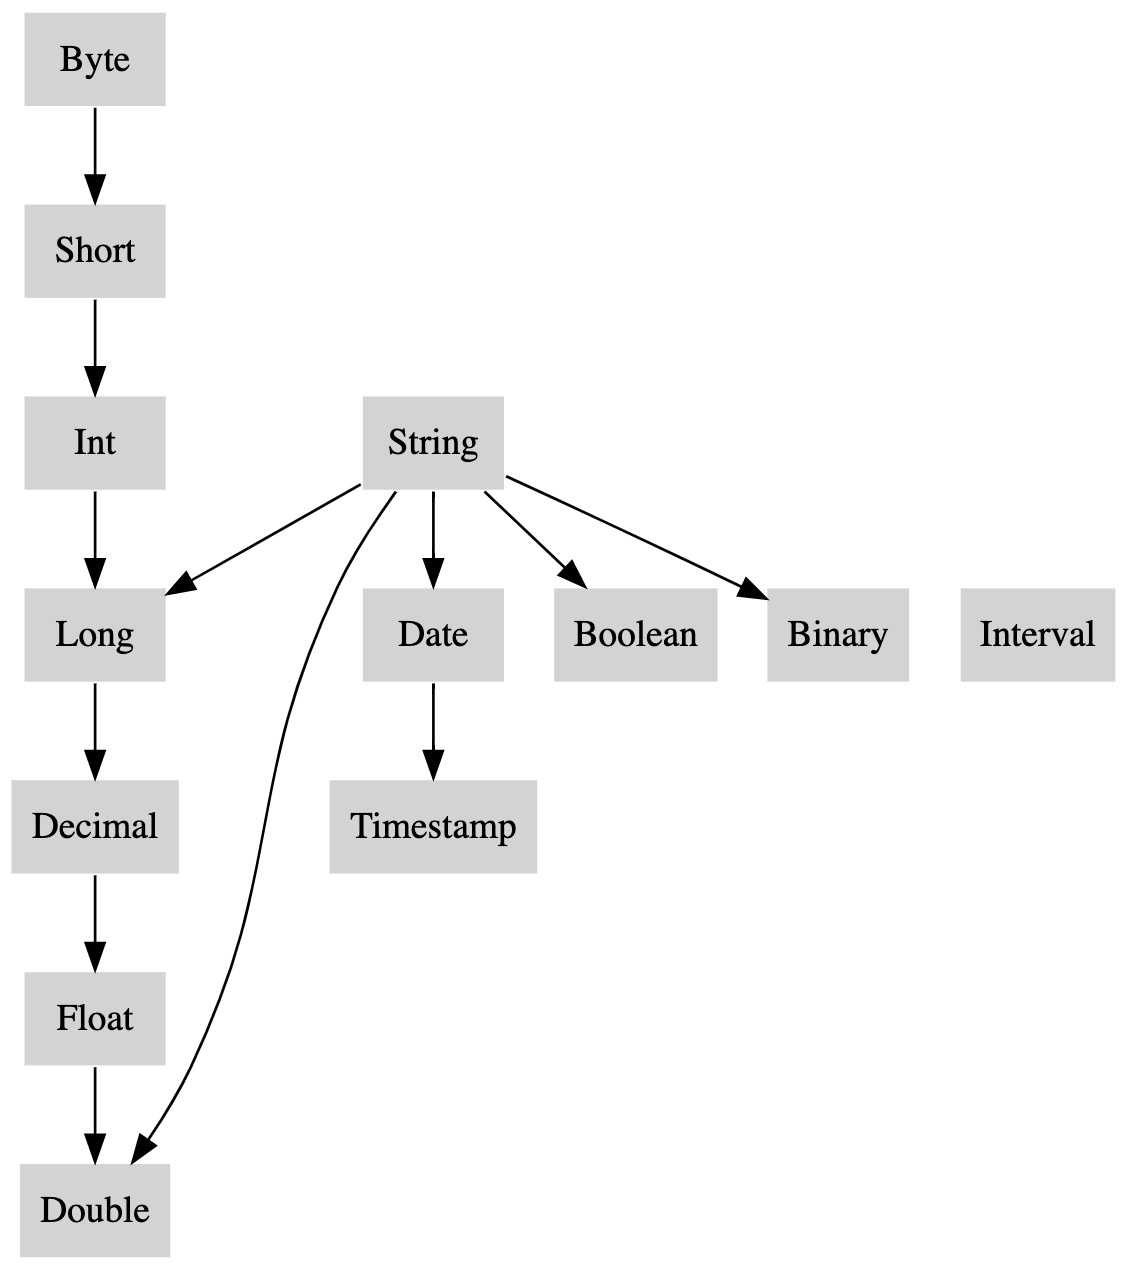
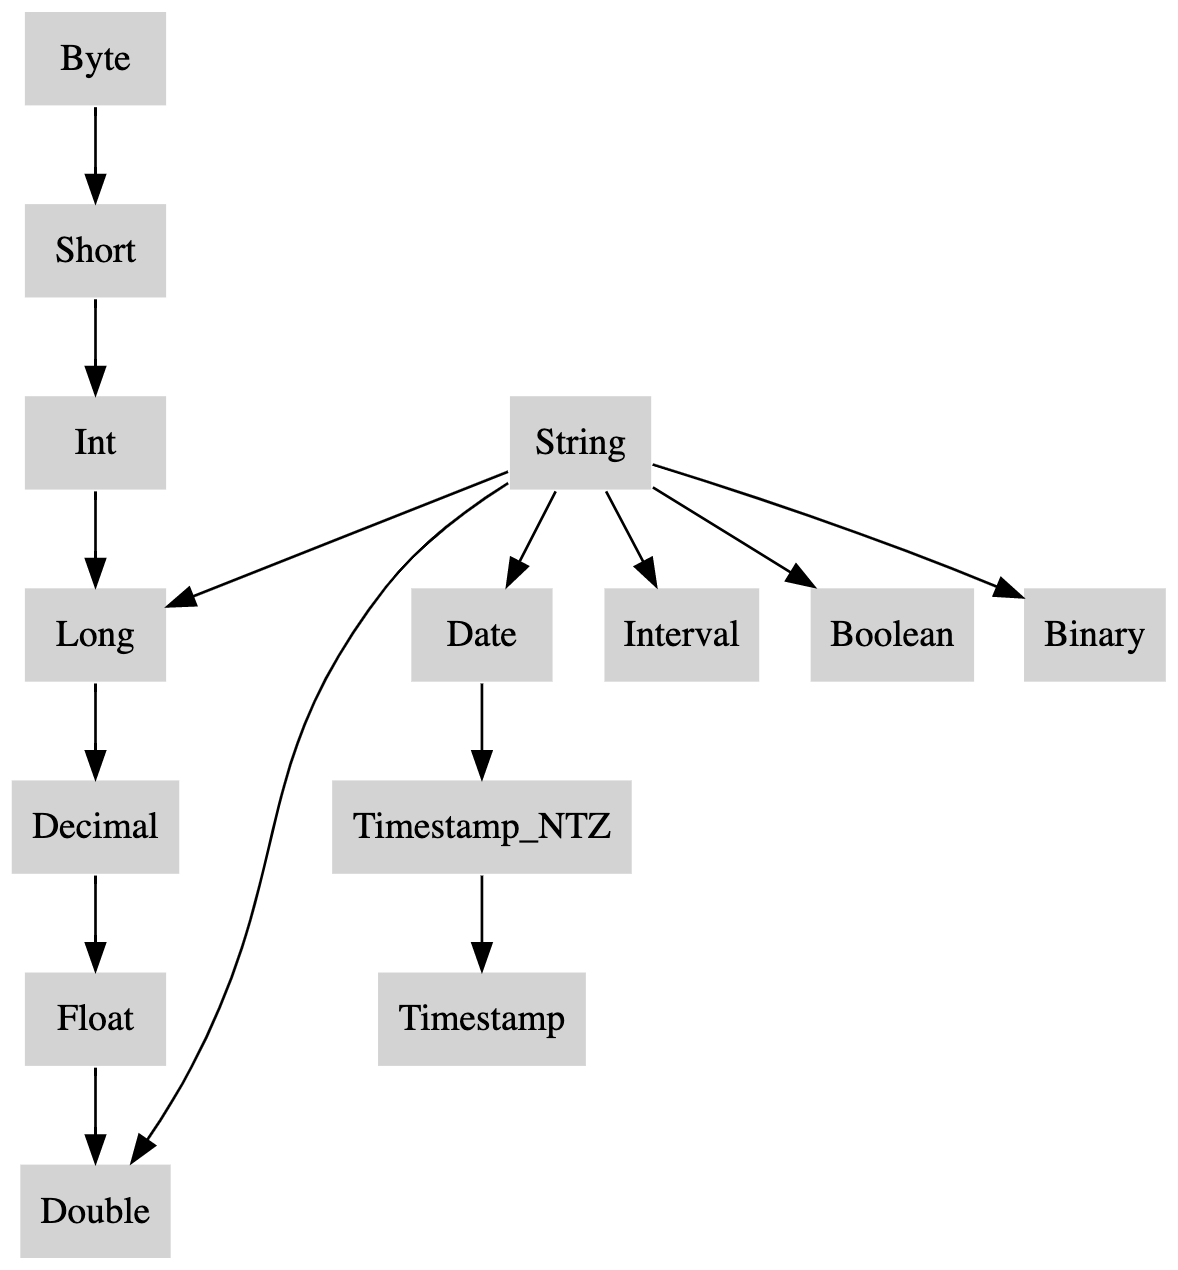
[SPARK-43072][DOC] Include TIMESTAMP_NTZ type in ANSI Compliance doc
### What changes were proposed in this pull request?

There are important syntax rules about Cast/Store assignment/Type precedent list in the [ANSI Compliance doc](https://spark.apache.org/docs/latest/sql-ref-ansi-compliance.html)
As we are going to release [timestamp_ntz](https://issues.apache.org/jira/browse/SPARK-35662) type in Spark 3.4.0, we should update the doc page as well.

### Why are the changes needed?

Better documentation

### Does this PR introduce _any_ user-facing change?

No
### How was this patch tested?

Manual build and verify
<img width="1183" alt="image" src="https://user-images.githubusercontent.com/1097932/230692965-02ec5a6e-8b8a-48dc-8049-9a87d26b2ce5.png">
<img width="1068" alt="image" src="https://user-images.githubusercontent.com/1097932/230692988-bd35508c-0577-44c5-8448-f8d3b0aef2ea.png">
<img width="764" alt="image" src="https://user-images.githubusercontent.com/1097932/230693005-cb61a760-ea11-4e6d-bdcb-2738c7c507c6.png">

Closes #40711 from gengliangwang/ntz_in_ansi_doc.

diff --git a/docs/sql-ref-ansi-compliance.md b/docs/sql-ref-ansi-compliance.md
@@ -82,22 +82,23 @@ Besides, the ANSI SQL mode disallows the following type conversions which are al
  The valid combinations of source and target data type in a `CAST` expression are given by the following table.
 “Y” indicates that the combination is syntactically valid without restriction and “N” indicates that the combination is not valid.
 
-| Source\Target | Numeric | String | Date | Timestamp | Interval | Boolean | Binary | Array | Map | Struct |
-|-----------|--------|--------|------|-----------|----------|---------|--------|-------|-----|--------|
-| Numeric   | <span style="color:red">**Y**</span> | <span style="color:red">**Y**</span>      | N    | <span style="color:red">**Y**</span>         | <span style="color:red">**Y**</span>      | Y       | N      | N     | N   | N      |
-| String    | <span style="color:red">**Y**</span> | Y | <span style="color:red">**Y**</span> | <span style="color:red">**Y**</span> | <span style="color:red">**Y**</span> | <span style="color:red">**Y**</span> | Y | N     | N   | N      |
-| Date      | N      | Y      | Y    | Y         | N        | N       | N      | N     | N   | N      |
-| Timestamp | <span style="color:red">**Y**</span> | Y      | Y    | Y         | N        | N       | N      | N     | N   | N      |
-| Interval  | <span style="color:red">**Y**</span> | Y      | N    | N         | Y        | N       | N      | N     | N   | N      |
-| Boolean   | Y      | Y      | N    | N         | N        | Y       | N      | N     | N   | N      |
-| Binary    | N      | Y      | N    | N         | N        | N       | Y      | N     | N   | N      |
-| Array     | N      | Y      | N    | N         | N        | N       | N      | <span style="color:red">**Y**</span> | N   | N      |
-| Map       | N      | Y      | N    | N         | N        | N       | N      | N     | <span style="color:red">**Y**</span> | N      |
-| Struct    | N      | Y      | N    | N         | N        | N       | N      | N     | N   | <span style="color:red">**Y**</span> |
+| Source\Target | Numeric                              | String                               | Date                                 | Timestamp                            | Timestamp_NTZ                        | Interval                             | Boolean                              | Binary | Array                                | Map                                  | Struct                               |
+|---------------|--------------------------------------|--------------------------------------|--------------------------------------|--------------------------------------|--------------------------------------|--------------------------------------|--------------------------------------|--------|--------------------------------------|--------------------------------------|--------------------------------------|
+| Numeric       | <span style="color:red">**Y**</span> | <span style="color:red">**Y**</span> | N                                    | <span style="color:red">**Y**</span> | N                                    | <span style="color:red">**Y**</span> | Y                                    | N      | N                                    | N                                    | N                                    |
+| String        | <span style="color:red">**Y**</span> | Y                                    | <span style="color:red">**Y**</span> | <span style="color:red">**Y**</span> | <span style="color:red">**Y**</span> | <span style="color:red">**Y**</span> | <span style="color:red">**Y**</span> | Y      | N                                    | N                                    | N                                    |
+| Date          | N                                    | Y                                    | Y                                    | Y                                    | Y                                    | N                                    | N                                    | N      | N                                    | N                                    | N                                    |
+| Timestamp     | <span style="color:red">**Y**</span> | Y                                    | Y                                    | Y                                    | Y                                    | N                                    | N                                    | N      | N                                    | N                                    | N                                    |
+| Timestamp_NTZ | N                                    | Y                                    | Y                                    | Y                                    | Y                                    | N                                    | N                                    | N      | N                                    | N                                    | N                                    |
+| Interval      | <span style="color:red">**Y**</span> | Y                                    | N                                    | N                                    | N                                    | Y                                    | N                                    | N      | N                                    | N                                    | N                                    |
+| Boolean       | Y                                    | Y                                    | N                                    | N                                    | N                                    | N                                    | Y                                    | N      | N                                    | N                                    | N                                    |
+| Binary        | N                                    | Y                                    | N                                    | N                                    | N                                    | N                                    | N                                    | Y      | N                                    | N                                    | N                                    |
+| Array         | N                                    | Y                                    | N                                    | N                                    | N                                    | N                                    | N                                    | N      | <span style="color:red">**Y**</span> | N                                    | N                                    |
+| Map           | N                                    | Y                                    | N                                    | N                                    | N                                    | N                                    | N                                    | N      | N                                    | <span style="color:red">**Y**</span> | N                                    |
+| Struct        | N                                    | Y                                    | N                                    | N                                    | N                                    | N                                    | N                                    | N      | N                                    | N                                    | <span style="color:red">**Y**</span> |
 
 In the table above, all the `CAST`s with new syntax are marked as red <span style="color:red">**Y**</span>:
 * CAST(Numeric AS Numeric): raise an overflow exception if the value is out of the target data type's range.
-* CAST(String AS (Numeric/Date/Timestamp/Interval/Boolean)): raise a runtime exception if the value can't be parsed as the target data type.
+* CAST(String AS (Numeric/Date/Timestamp/Timestamp_NTZ/Interval/Boolean)): raise a runtime exception if the value can't be parsed as the target data type.
 * CAST(Timestamp AS Numeric): raise an overflow exception if the number of seconds since epoch is out of the target data type's range.
 * CAST(Numeric AS Timestamp): raise an overflow exception if numeric value times 1000000(microseconds per second) is out of the range of Long type. 
 * CAST(Array AS Array): raise an exception if there is any on the conversion of the elements.
@@ -170,18 +171,19 @@ While casting of a decimal with a fraction to an interval type with SECOND as th
 ### Store assignment
 As mentioned at the beginning, when `spark.sql.storeAssignmentPolicy` is set to `ANSI`(which is the default value), Spark SQL complies with the ANSI store assignment rules on table insertions. The valid combinations of source and target data type in table insertions are given by the following table.
 
-| Source\Target | Numeric | String | Date | Timestamp | Interval | Boolean | Binary | Array | Map | Struct |
-|:-------------:|:-------:|:------:|:----:|:---------:|:--------:|:-------:|:------:|:-----:|:---:|:------:|
-| Numeric       | Y       | Y      | N    | N         | N        | N       | N      | N     | N   | N      |
-| String        | N       | Y      | N    | N         | N        | N       | N      | N     | N   | N      |
-| Date          | N       | Y      | Y    | Y         | N        | N       | N      | N     | N   | N      |
-| Timestamp     | N       | Y      | Y    | Y         | N        | N       | N      | N     | N   | N      |
-| Interval      | N       | Y      | N    | N         | N*        | N       | N      | N     | N   | N      |
-| Boolean       | N       | Y      | N    | N         | N        | Y       | N      | N     | N   | N      |
-| Binary        | N       | Y      | N    | N         | N        | N       | Y      | N     | N   | N      |
-| Array         | N       | N      | N    | N         | N        | N       | N      | Y**     | N   | N      |
-| Map           | N       | N      | N    | N         | N        | N       | N      | N     | Y**   | N      |
-| Struct        | N       | N      | N    | N         | N        | N       | N      | N     | N   | Y**      |
+| Source\Target | Numeric | String | Date | Timestamp | Timestamp_NTZ | Interval | Boolean | Binary | Array | Map | Struct |
+|:-------------:|:-------:|:------:|:----:|:---------:|---------------|:--------:|:-------:|:------:|:-----:|:---:|:------:|
+|    Numeric    |    Y    |   Y    |  N   |     N     | N             |    N     |    N    |   N    |   N   |  N  |   N    |
+|    String     |    N    |   Y    |  N   |     N     | N             |    N     |    N    |   N    |   N   |  N  |   N    |
+|     Date      |    N    |   Y    |  Y   |     Y     | Y             |    N     |    N    |   N    |   N   |  N  |   N    |
+|   Timestamp   |    N    |   Y    |  Y   |     Y     | Y             |    N     |    N    |   N    |   N   |  N  |   N    |
+| Timestamp_NTZ |    N    |   Y    |  Y   |     Y     | Y             |    N     |    N    |   N    |   N   |  N  |   N    |
+|   Interval    |    N    |   Y    |  N   |     N     | N             |    N*    |    N    |   N    |   N   |  N  |   N    |
+|    Boolean    |    N    |   Y    |  N   |     N     | N             |    N     |    Y    |   N    |   N   |  N  |   N    |
+|    Binary     |    N    |   Y    |  N   |     N     | N             |    N     |    N    |   Y    |   N   |  N  |   N    |
+|     Array     |    N    |   N    |  N   |     N     | N             |    N     |    N    |   N    |  Y**  |  N  |   N    |
+|      Map      |    N    |   N    |  N   |     N     | N             |    N     |    N    |   N    |   N   | Y** |   N    |
+|    Struct     |    N    |   N    |  N   |     N     | N             |    N     |    N    |   N    |   N   |  N  |  Y**   |
 
 \* Spark doesn't support interval type table column.
 
@@ -200,24 +202,24 @@ org.apache.spark.SparkArithmeticException: [CAST_OVERFLOW_IN_TABLE_INSERT] Fail 
 When `spark.sql.ansi.enabled` is set to `true`, Spark SQL uses several rules that govern how conflicts between data types are resolved.
 At the heart of this conflict resolution is the Type Precedence List which defines whether values of a given data type can be promoted to another data type implicitly.
 
-| Data type | precedence list(from narrowest to widest)                     |
-|-----------|---------------------------------------------------------------|
-| Byte      | Byte -> Short -> Int -> Long -> Decimal -> Float* -> Double   |
-| Short     | Short -> Int -> Long -> Decimal-> Float* -> Double            |
-| Int       | Int -> Long -> Decimal -> Float* -> Double                    |
-| Long      | Long -> Decimal -> Float* -> Double                           |
-| Decimal   | Decimal -> Float* -> Double                                   |
-| Float     | Float -> Double                                               |
-| Double    | Double                                                        |
-| Date      | Date -> Timestamp                                             |
-| Timestamp | Timestamp                                                     |
-| String    | String, Long -> Double, Date -> Timestamp, Boolean, Binary ** |
-| Binary    | Binary                                                        |
-| Boolean   | Boolean                                                       |
-| Interval  | Interval                                                      |
-| Map       | Map***                                                        |
-| Array     | Array***                                                      |
-| Struct    | Struct***                                                     |
+| Data type | precedence list(from narrowest to widest)                                       |
+|-----------|---------------------------------------------------------------------------------|
+| Byte      | Byte -> Short -> Int -> Long -> Decimal -> Float* -> Double                     |
+| Short     | Short -> Int -> Long -> Decimal-> Float* -> Double                              |
+| Int       | Int -> Long -> Decimal -> Float* -> Double                                      |
+| Long      | Long -> Decimal -> Float* -> Double                                             |
+| Decimal   | Decimal -> Float* -> Double                                                     |
+| Float     | Float -> Double                                                                 |
+| Double    | Double                                                                          |
+| Date      | Date -> Timestamp_NTZ -> Timestamp                                              |
+| Timestamp | Timestamp                                                                       |
+| String    | String, Long -> Double, Date -> Timestamp_NTZ -> Timestamp , Boolean, Binary ** |
+| Binary    | Binary                                                                          |
+| Boolean   | Boolean                                                                         |
+| Interval  | Interval                                                                        |
+| Map       | Map***                                                                          |
+| Array     | Array***                                                                        |
+| Struct    | Struct***                                                                       |
 
 \* For least common type resolution float is skipped to avoid loss of precision.
 
